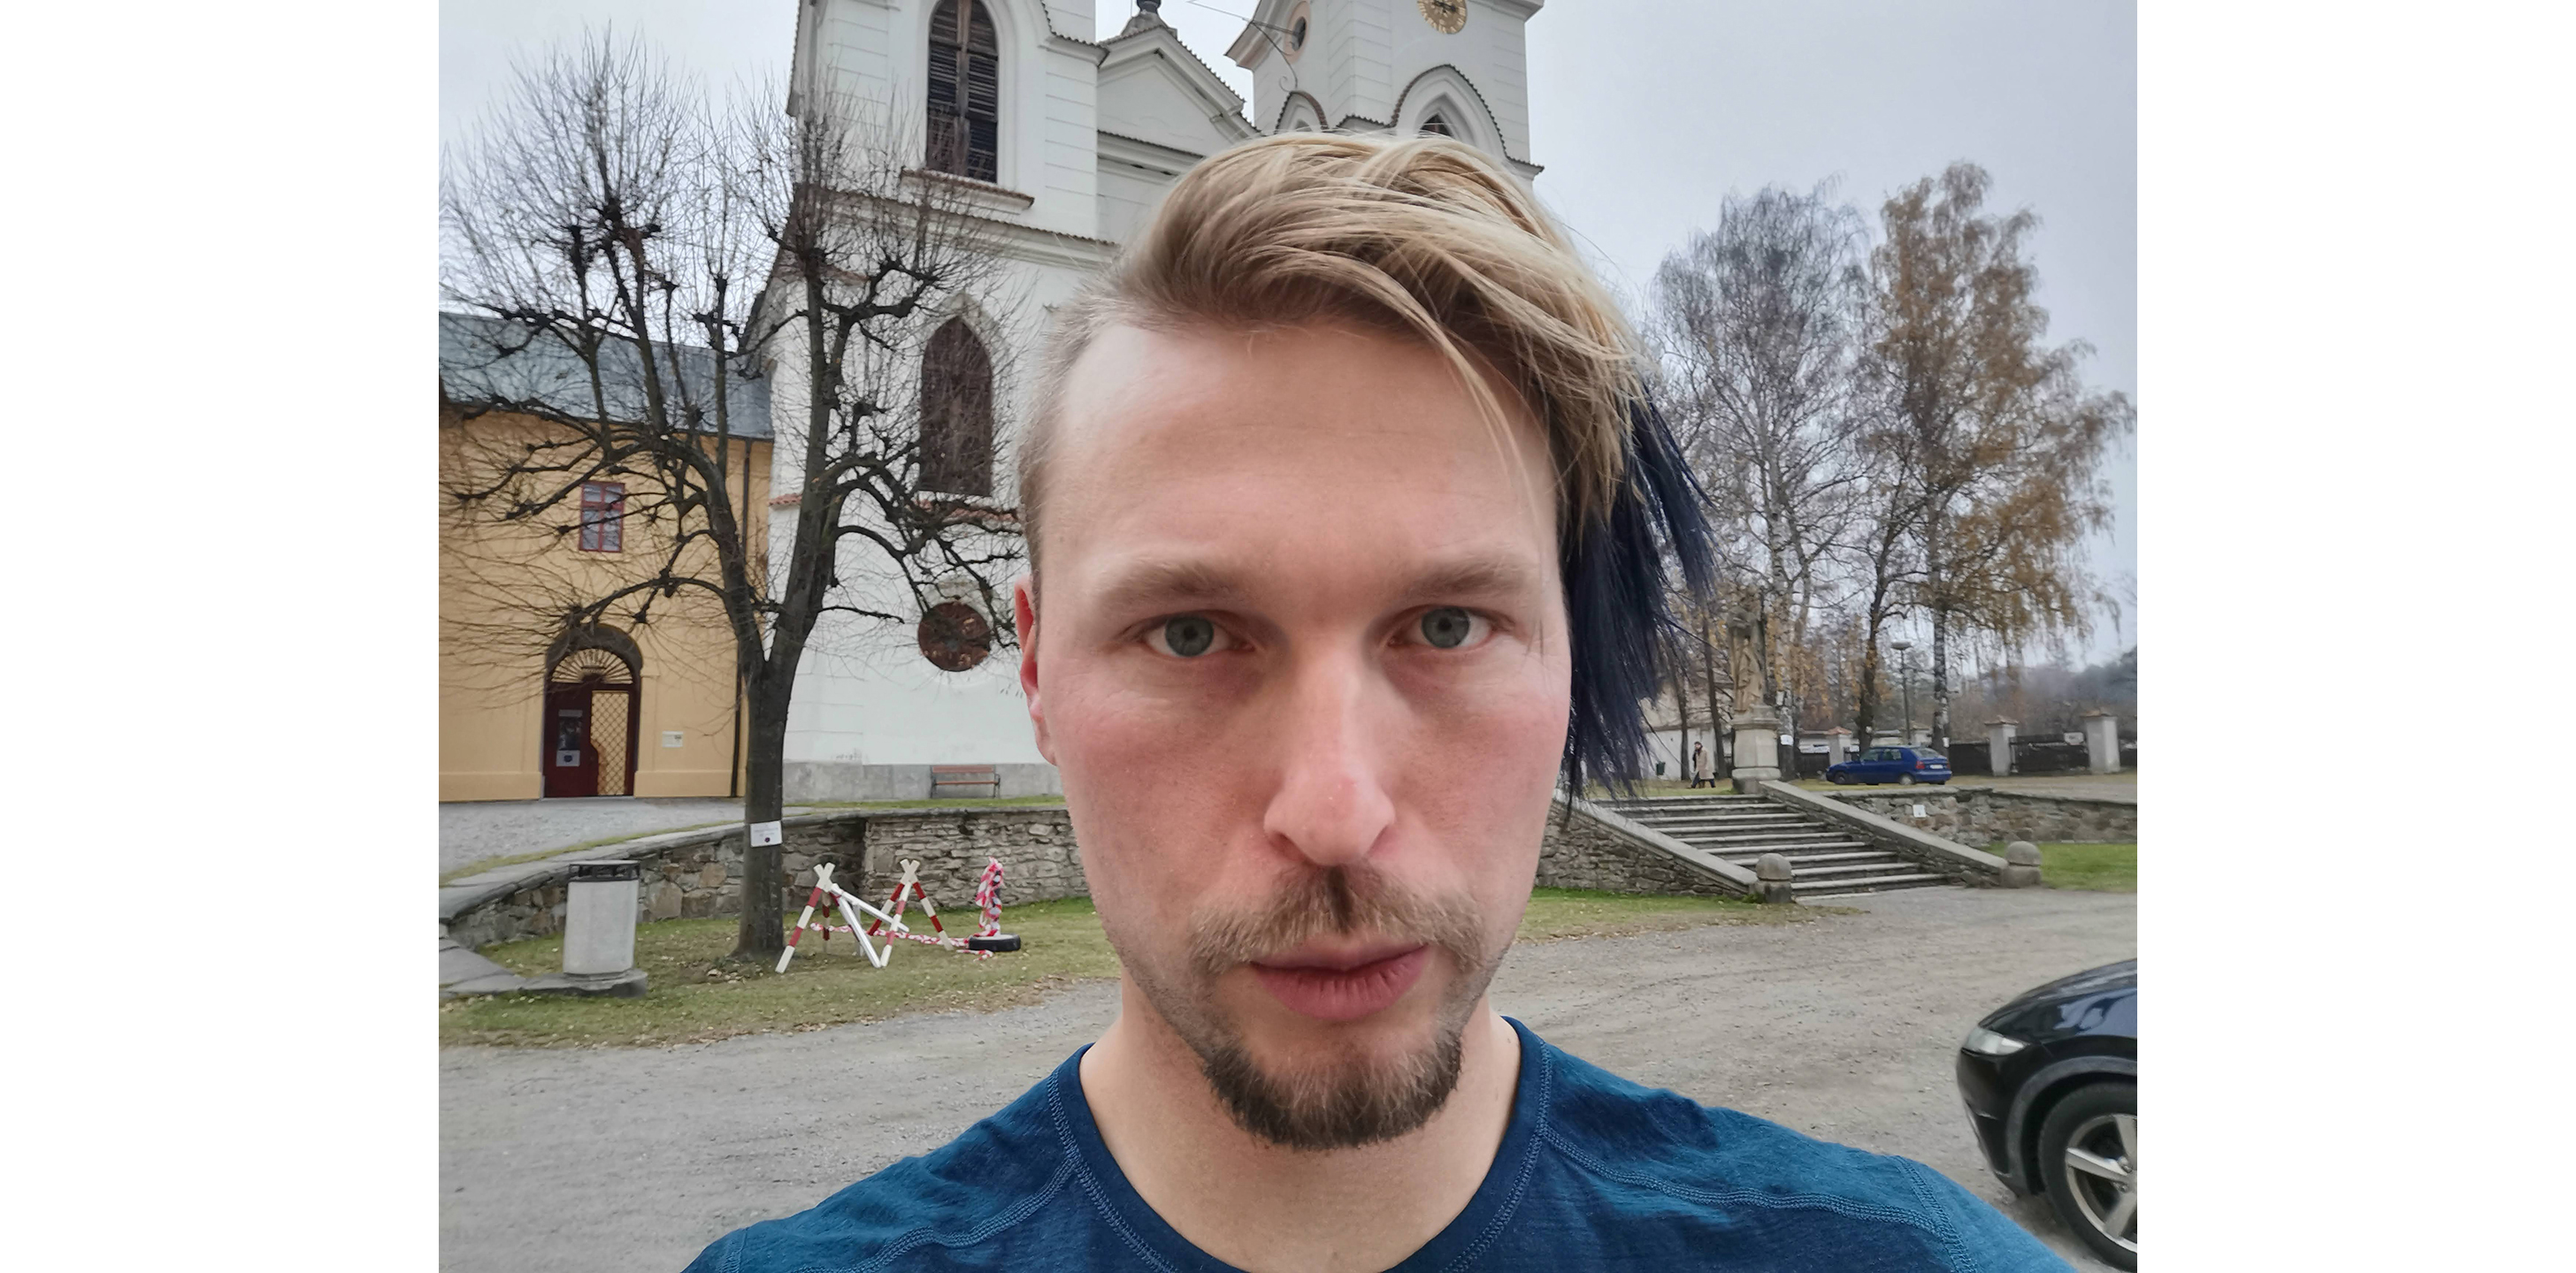
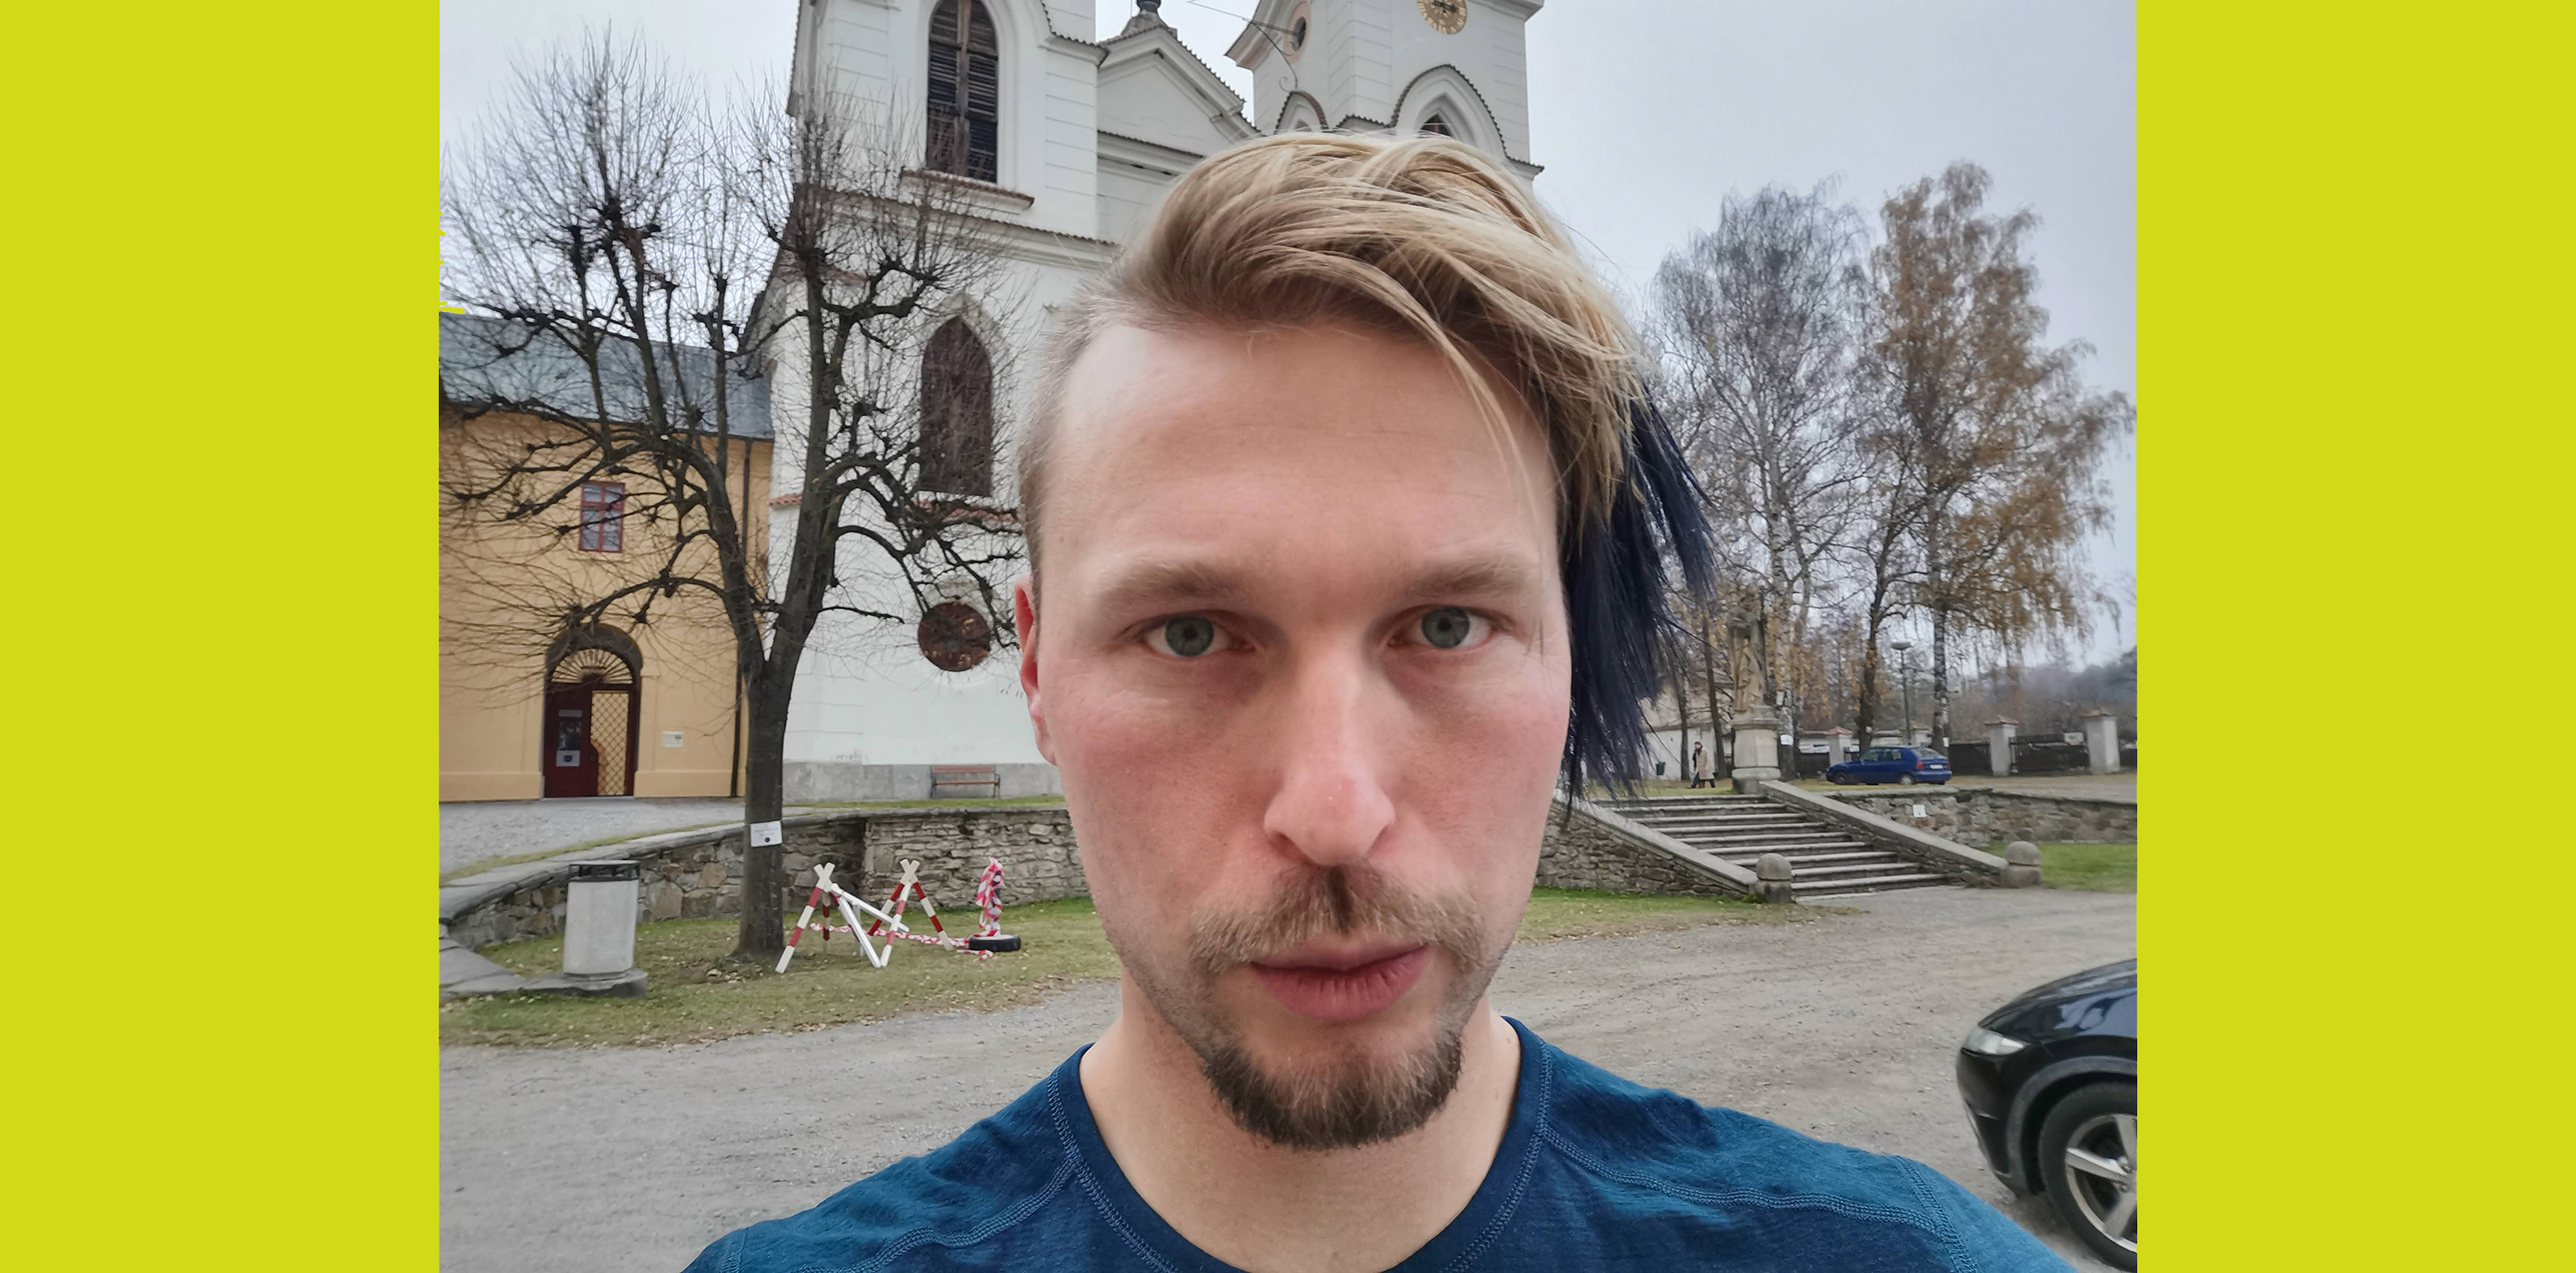
- scale height/width

diff --git a/ManualInput.cs b/ManualInput.cs
@@ -49,20 +49,37 @@ namespace Selfie1
 			InputImageFile = file;
 			Image<Bgr, byte> image = new Image<Bgr, byte>(file.FullName);
 
-			const int newHeight = REF_HEIGHT;
-			double scale = (float)REF_HEIGHT / image.Height;
-			int newWidth = (int)(image.Width * scale);
+			float imageAspectRatio = (float)image.Size.Width / image.Size.Height;
+			float refAspectRatio = (float)REF_WIDTH / REF_HEIGHT;
+			bool isScaleHeight = imageAspectRatio < refAspectRatio;
+
+			int newWidth = REF_WIDTH;
+			int newHeight = REF_HEIGHT;
+			double scale = isScaleHeight ?
+				(float)REF_HEIGHT / image.Height : (float)REF_WIDTH / image.Width;
+
+			if(isScaleHeight)
+				newWidth = (int)(image.Width * scale);
+			else
+				newHeight = (int)(image.Height * scale);
 
 
 			image = image.Resize(newWidth, newHeight, Emgu.CV.CvEnum.Inter.Linear);
-			inputImage = new Image<Bgr, byte>(REF_WIDTH, REF_HEIGHT, new Bgr(255,0,0));
-			int halfWidthDiff = (REF_WIDTH - newWidth) / 2;
+			inputImage = new Image<Bgr, byte>(REF_WIDTH, REF_HEIGHT, new Bgr(255, 0, 0));
 
+			int borderDiff = isScaleHeight ? 
+				(REF_WIDTH - newWidth) / 2 : (REF_HEIGHT - newHeight) / 2;
 			//https://docs.opencv.org/3.0-beta/modules/core/doc/operations_on_arrays.html#copymakeborder
 			//the borders need to match exactly so if halfWidth is not even number, we have to 
 			//calculate the remain
-			int halfWidthDiffRest = REF_WIDTH - image.Size.Width - halfWidthDiff;
-			CvInvoke.CopyMakeBorder(image, inputImage, 0, 0, halfWidthDiff, halfWidthDiffRest, Emgu.CV.CvEnum.BorderType.Constant, new MCvScalar(255,255,255));
+			int borderDiffRest = (isScaleHeight ? REF_WIDTH - image.Size.Width : REF_HEIGHT - image.Size.Height) - borderDiff;
+
+			int top = isScaleHeight ? 0 : borderDiff;
+			int bot = isScaleHeight ? 0 : borderDiffRest;
+			int right = isScaleHeight ? borderDiff : 0;
+			int left = isScaleHeight ? borderDiffRest : 0;
+
+			CvInvoke.CopyMakeBorder(image, inputImage, top, bot, left, right, Emgu.CV.CvEnum.BorderType.Constant, new MCvScalar(255, 255, 255));
 			//image.CopyTo(inputImage);
 
 
@@ -75,7 +92,7 @@ namespace Selfie1
 			//IMG_20210413_222434
 			SetInputLeftEye(214, 126);
 			SetInputRightEye(271, 126);
-			
+
 
 			//debug
 			//visuals.SetInputImage(image.AsBitmap());
@@ -96,7 +113,7 @@ namespace Selfie1
 			//SetInputLeftEye(221, 135);
 			//SetInputRightEye(269, 133);
 
-			
+
 		}
 
 		private void SetOutputEyes()
